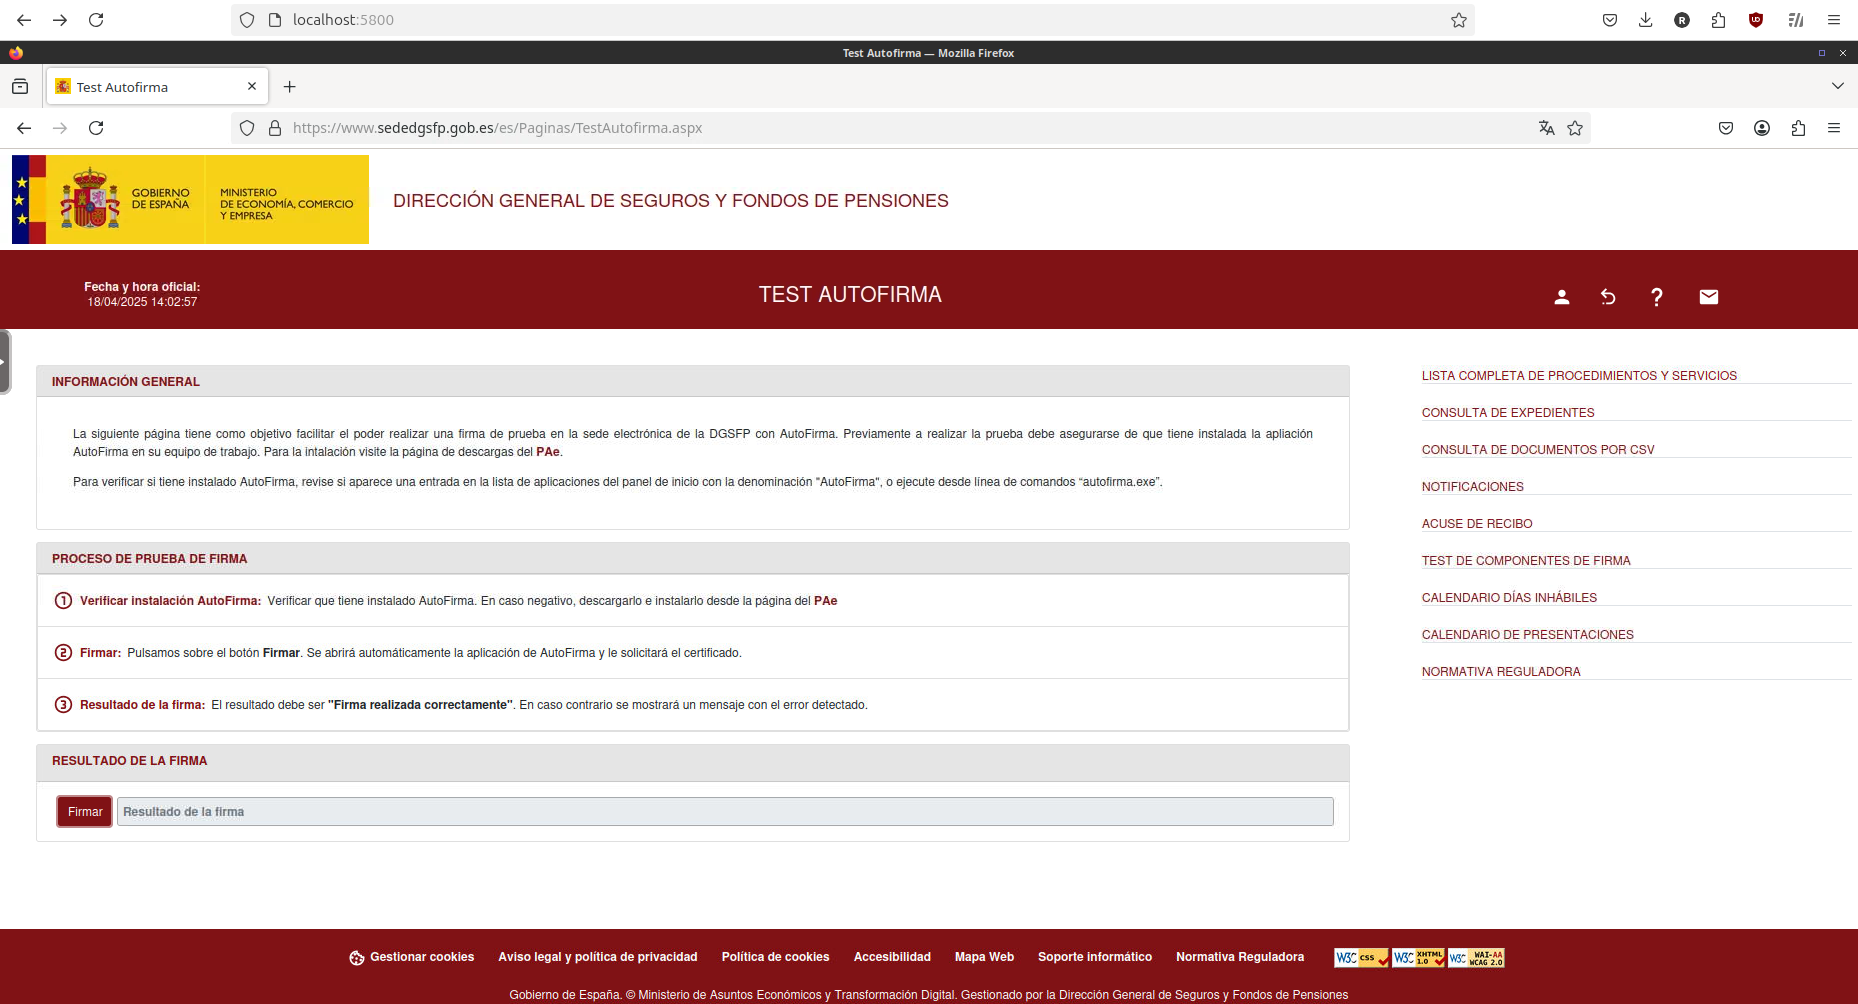
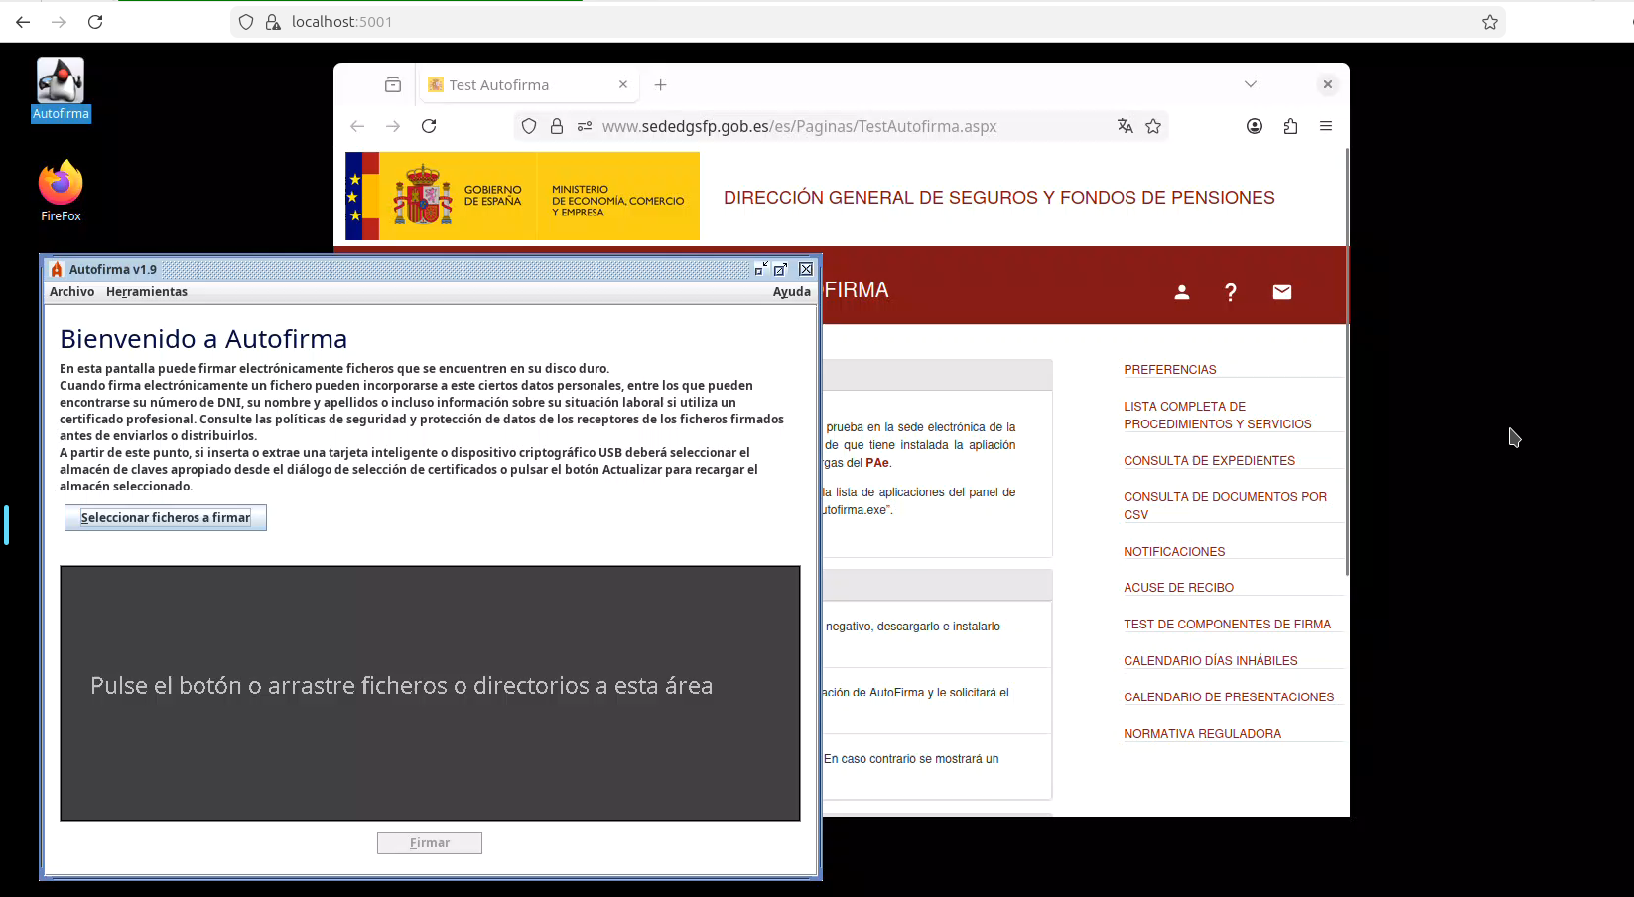
docs: update for new selkies remote desktop variant

diff --git a/README.md b/README.md
@@ -3,7 +3,9 @@ This container runs a remote [sandboxed environment with firefox](https://github
 
 # Usage
 + `./run.sh`
-+ Access from any web browser at http://localhost:5800
++ Access from any web browser at http://localhost:5800 (HTTP) or https://localhost:5801 (HTTPS)
+
+> NOTE: ironically, it performs quite better in Chromium than in Firefox (offering near-native performance)
 
 + If you need any certificates inside the autofirma environment, copy them inside the `certificates/` folder. They'll be available inside the container in `/config/certificates/` (`Home/certificates` in the integrated file picker).
 + For your convenience, you may use the `documents/` folder to copy any files to sign & retrieve the signed result.
@@ -20,7 +22,8 @@ Autofirma is required by many Spanish government websites for online operations,
 
 This setup minimizes risk by running inside a container, instead of in your host machine.
 
-It can also be used to sign documents from within an organization without sharing keys, in a centralized UI. Keep in mind, it should be secured behind a private network,and proper security practices should be performed.
+> [!TIP]
+> It can also be used to sign documents from within an organization without sharing keys, in a centralized UI. Keep in mind, it should be secured behind a private network,and proper security practices should be performed.
 
 # Requirements
 + `docker` https://docs.docker.com/engine/install/